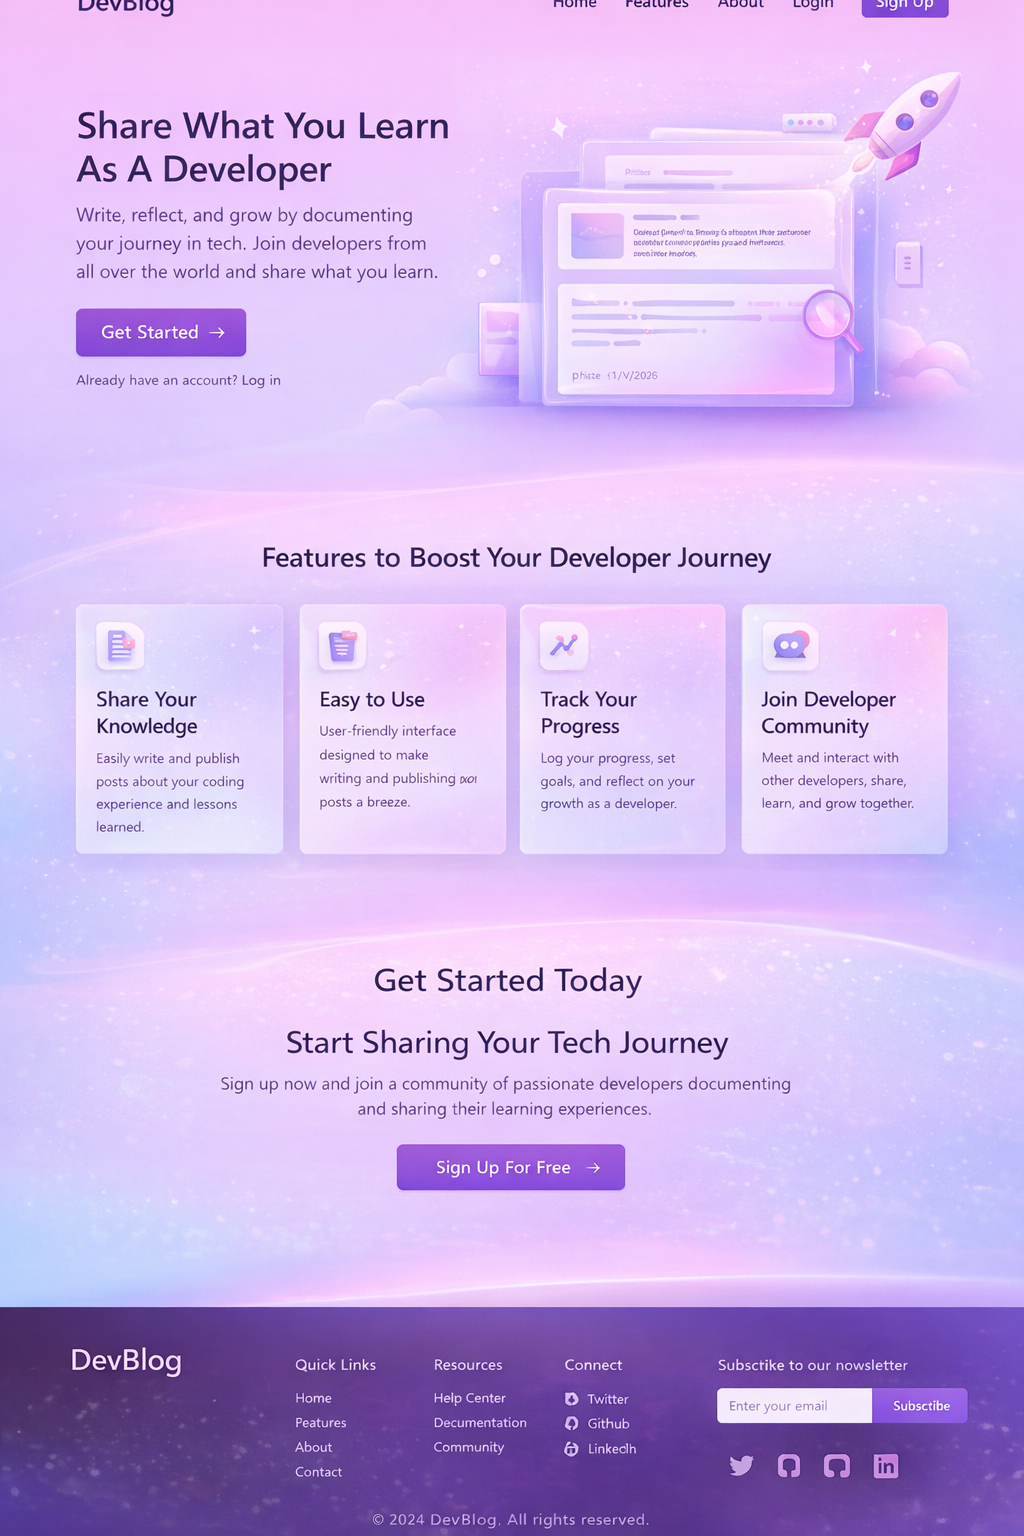
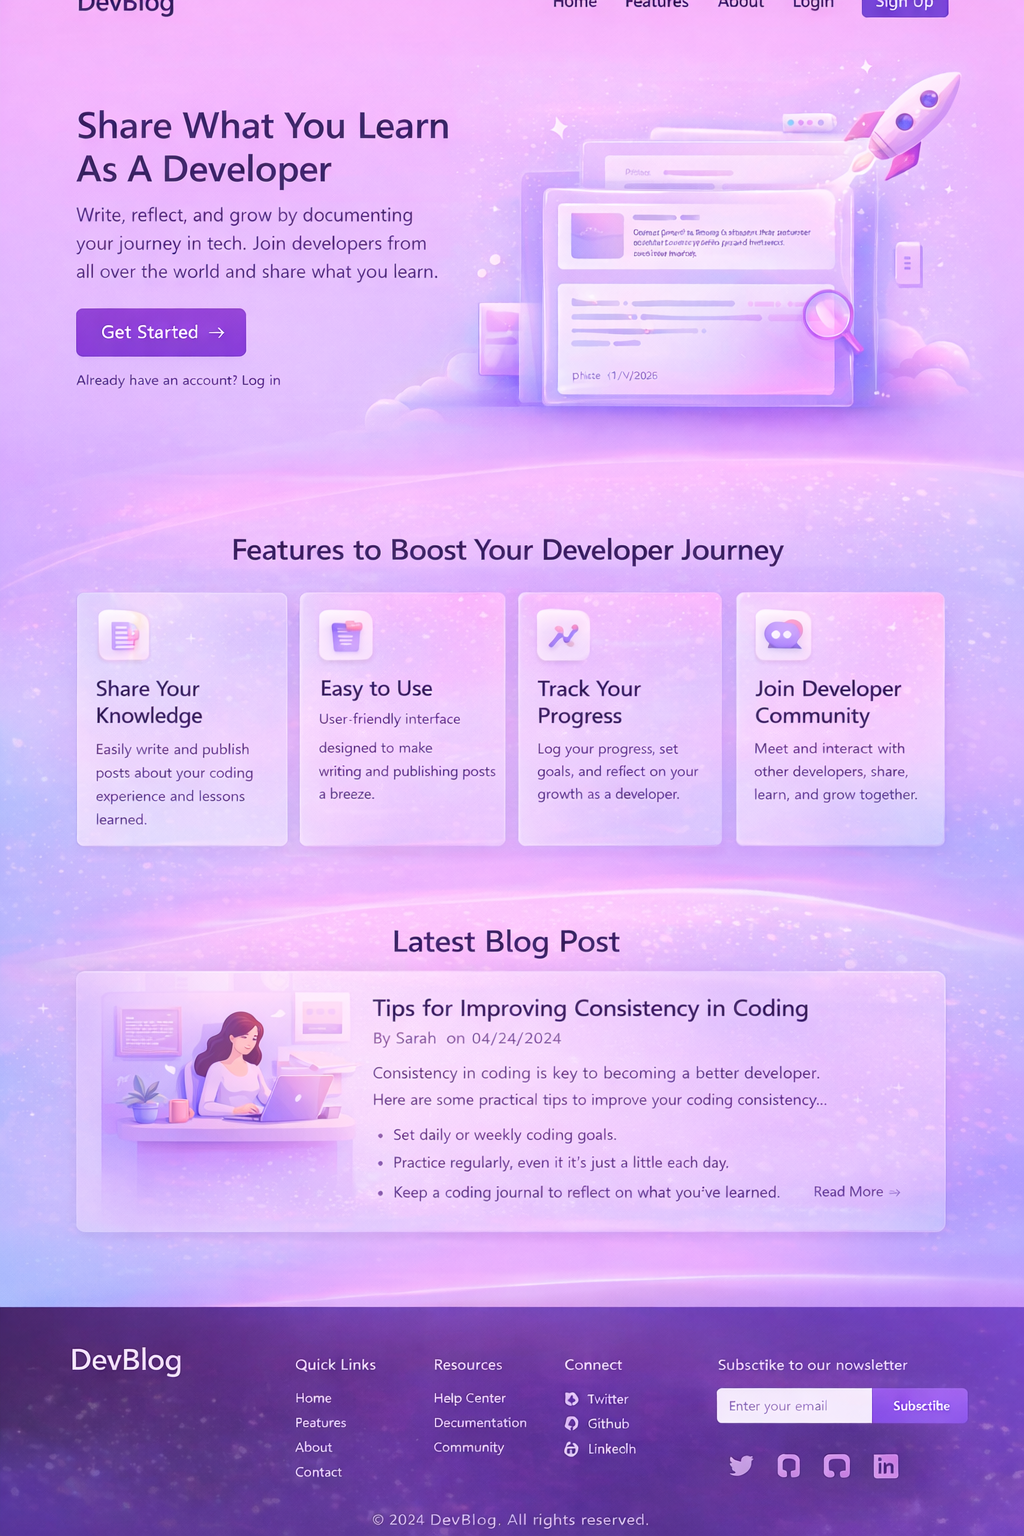
building Landing page

Changed region(s): [[0.0, 0.2812, 1.0, 0.875], [0.0, 0.6875, 0.0312, 0.7188]]

diff --git a/frontend/src/pages/LandingPage.tsx b/frontend/src/pages/LandingPage.tsx
@@ -1,10 +1,10 @@
 import { Link } from "react-router-dom";
 import { Button } from "../components/Button";
-
+import CoderImage from '../assets/Coder.png';
 
 export default function LandingPage() {
   return (
-    <div className="min-h-screen bg-[linear-gradient(to_bottom,#F8B4F0,#C7F9F8)] backdrop-blur-md">
+    <div className="min-h-screen bg-[linear-gradient(to_bottom,#F8B4F0,#C7F9F8,#F8B4F0)] backdrop-blur-md">
       {/* Navbar */}
       <header className="flex py-8 px-10">
 		<h1 className="text-3xl font-bold">Dev Blog</h1>
@@ -52,32 +52,103 @@ export default function LandingPage() {
         </div>
 
         {/* Illustration Placeholder */}
-        
+        <div className="border w-150 h-100 mr-10 rounded-2xl bg-white/70">
+			
+		</div>
       </section>
 
       {/* Features */}
       <section className="px-10 py-16">
+			<h1 className="text-center font-semibold text-3xl">Features to Boost Your Developer Journey</h1>
+		<div className="grid md:grid-cols-4 gap-6 p-6">
+			{[
+				{
+					title: "Share Your Knowledge",
+					desc: "Write and publish posts about what you learn while coding."
+				},
+				{
+					title: "Easy to Use",
+					desc: "User-friendly interface designed to make writing and publishing post a breeze."
+				},
+				{
+					title: "Track Your Progress",
+					desc: "Log your progress, set goals and reflect on your growth as as developer."
+				},
+				{
+					title: "Join Developer Community",
+					desc: "Meet and interact with other developer, share, learn and grow together"
+				}
+			].map((item) => (
+				<div key={item.title} className="rounded-2xl shadow bg-white/50 p-4 cursor-pointer transition-all duration-300 ease-out
+				hover:-translate-y-1.5
+				hover:scale-[1.07]
+				hover:shadow-2xl">
+					<h2 className="font-semibold mb-2 text-2xl">{item.title}</h2>
+					<p className="text-gray-700">{item.desc}</p>
+				</div>
+			))}
+		</div>
         </section>
 
       {/* CTA */}
-      <section className="text-center py-20">
-        <h3 className="text-3xl font-bold">
-          Start Sharing Your Tech Journey
-        </h3>
-        <p className="mt-4 text-gray-700">
-          No social pressure. Just learning, writing, and progress.
-        </p>
-
-        <Link
-          to="/signup"
-          className="inline-block mt-8 px-10 py-3 rounded-xl bg-linear-to-r from-purple-500 to-pink-500 text-white font-semibold shadow"
-        >
-          Sign Up For Free →
-        </Link>
-      </section>
+      <div className="px-60">
+        <h1 className="text-center text-4xl font-semibold mb-6">
+          Latest Blog Post
+        </h1>
+        <div className="flex rounded-xl p-6 bg-white/50">
+			<img src={CoderImage} alt="Post" 
+				className="w-96 h-32 md:h-64 object-cover rounded-lg"/>
+			<div className="ml-10 gap-4">
+				<h2 className="text-2xl font-bold">Tips for Improving Consistency in Coding</h2>
+			<p className="text-gray-700 text-lg mt-6">
+				Consistent in coding is key to becoming a better developer.<br />
+				Here are some practical tips to improve your coding consistency...<br /></p>
+				<ul className="text-gray-700 text-lg list-disc list-inside pl-6 mt-2">
+				<li>Set daily or weekly coding goals.</li>
+				<li>Practice regularly, even if it's just a little each day.</li>
+				<li>Keep a coding journal to reflect on what you've learned.</li>
+				</ul>
+				<br />
+			</div>
+		</div>
+      </div>
 
       {/* Footer */}
-      
+      <footer className="bg-purple-600 text-white/90 backdrop-blur px-10 py-8 mt-10">
+		<div className="grid grid-cols-5 text-lg">
+		<h1 className="text-white text-3xl ">DevBlog</h1>
+			<div>
+				<h4>Quick Links</h4>
+				<ul className="text-base mt-3">
+					<li><Link to={"/"}>Home</Link></li>
+					<li><Link to={"/"}>Features</Link></li>
+					<li><Link to={"/about"}>About</Link></li>
+					<li><Link to={"/contact"}>Contact</Link></li>
+				</ul>
+			</div>
+			<div>
+				<h4>Resources</h4>
+				<ul className="text-base mt-3">
+					<li><Link to={"/"}>Help Center</Link></li>
+					<li><Link to={"/"}>Documentation</Link></li>
+					<li><Link to={"/about"}>Community</Link></li>
+				</ul>
+			</div>
+			<div>
+				<h4>Connect</h4>
+				<ul className="text-base mt-3">
+					<li><Link to={"/"}>X</Link></li>
+					<li><Link to={"/"}>GitHub</Link></li>
+					<li><Link to={"/about"}>LinkedIn</Link></li>
+				</ul>
+			</div>
+			<div className="">
+			<h4>Subscribe to our newsletter</h4>
+				<input className="w-50 h-10 mt-3 p-2 rounded-md bg-white text-base text-gray-900" type="text" placeholder="Enter your email"/>
+				<Button title="Subscribe"/>
+			</div>
+		</div>
+	  </footer>
       
     </div>
   );
